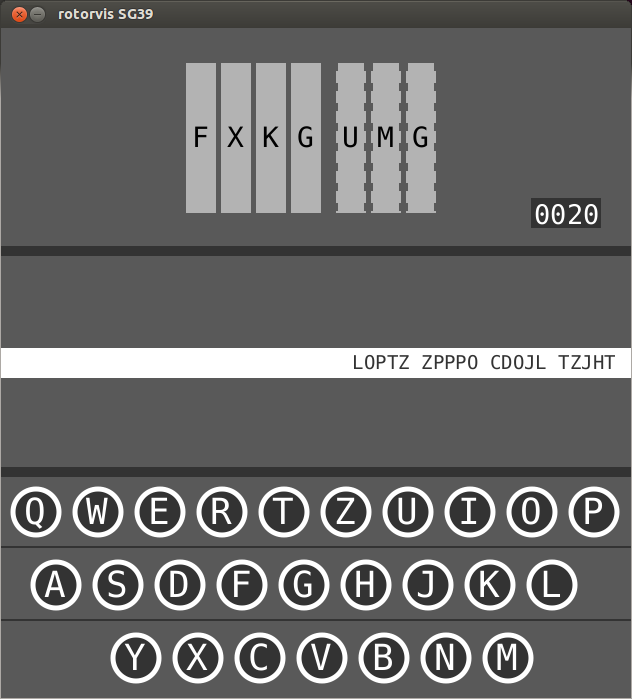
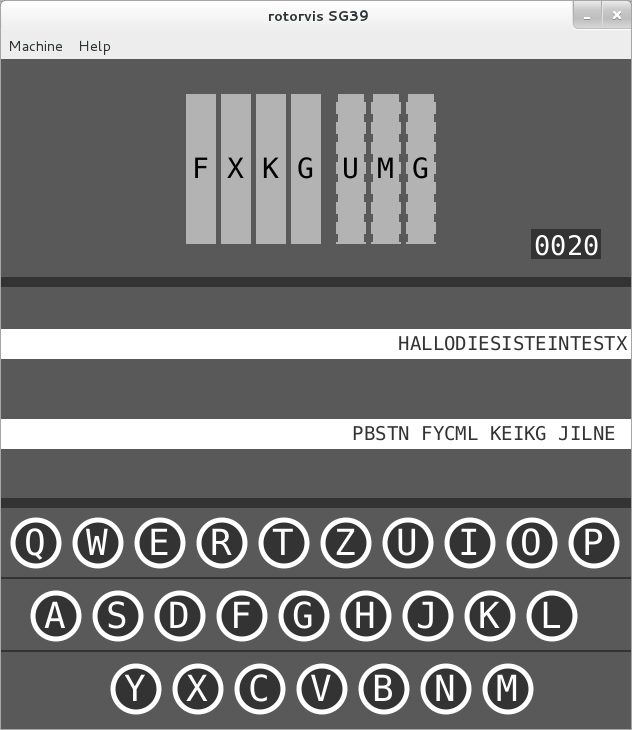
Implemented dual printer for SG39

diff --git a/output_device.h b/output_device.h
@@ -57,14 +57,23 @@ public:
      */    
     virtual void draw(Cairo::RefPtr<Cairo::Context> cr);
 
+    /*! \brief This method implements the first phase of the visualization of the character pressed on the keyboard
+     *         given in parameter symbol. The result of this visualization is drawn into the drawing context specified
+     *         in parameter cr.
+     *
+     *  This method is intended to care for the situation where the output device of a rotor machine prints both input
+     *  and output characters.
+     */
+    virtual void keyboard_symbol_start(Cairo::RefPtr<Cairo::Context> cr, gunichar symbol) { ; }
+
     /*! \brief This method implements the first phase of the visualization of the output character given in parameter 
      *         symbol. The result of this visualization is drawn into the drawing context specified in parameter cr.
      */
     virtual void output_symbol_start(Cairo::RefPtr<Cairo::Context> cr, gunichar symbol) = 0;
 
-    /*! \brief This method implements the second phase of the visualization of the output character that has been determined
-     *         by a previous call to output_device::output_symbol_start(). The result of this visualization is drawn into the
-     *         drawing context specified in parameter cr.
+    /*! \brief This method implements the second phase of the visualization of the output and keyboard character that has been
+     *         determined by a previous call to output_device::output_symbol_start() or output_device::keyboard_symbol_start().
+     *         The result of this visualization is drawn into the drawing context specified in parameter cr.
      */
     virtual void output_symbol_stop(Cairo::RefPtr<Cairo::Context> cr) = 0;         
 
@@ -260,6 +269,70 @@ struct printer_params {
     unsigned int height;
 };
 
+/*! \brief A GUI class that is intened to be used as a base class for all output devices that know how to draw a simulated
+ *         printer into a Cairo drawing context.
+ */
+class printer_base : public output_device {
+public:
+    /*! \brief Constructor. The parameters pos_x and pos_y have to specify the upper left corner of the white paper strip. The
+     *         callback enc_state_func has to return a boolean which is used to determine if the underlying rotor machine is
+     *         doing encryptios (True) or not (False). The callback redraw_func is intended to initiate a redraw of the simulator's
+     *         GUI.
+     */
+    printer_base(sigc::slot<bool> enc_state_func, sigc::slot<void> redraw_func, int pos_x, int pos_y);
+
+    /*! \brief Draws the output device into the Cairo context specified by the parameter cr. 
+     *
+     *  In this base class implementation only the upper border is drawn.
+     */    
+    virtual void draw(Cairo::RefPtr<Cairo::Context> cr) { output_device::draw(cr); }
+
+    /*! \brief This method can be use to set the number of characters in a group. The new group size gas to be specified
+     *         through the parameter new_width.
+     */                
+    virtual void set_grouping_width(unsigned int new_width) = 0;
+
+    /*! \brief This method returns the number of characters that make up a group in this instance of printer_visualizer.
+     */                
+    virtual unsigned int get_grouping_width() = 0;
+
+    /*! \brief Calling this method with parameter new_value set to True forces this printer_base object to convert all characters
+     *         to lower case before they are printed. Calling this method with new_value = False instructs this printer_base
+     *         object to perform no forced conversion to lower case.
+     *
+     *  Calling this method with new_value = True does not change the case of letters that have already been printed.
+     */                
+    virtual void set_use_lower_case(bool new_value) = 0;
+
+    /*! \brief This method returns the value of the flag that determines if characters a converted to lower case before
+     *         being printed.
+     */                
+    virtual bool get_use_lower_case() = 0;
+        
+    /*! \brief This method allows to set the printer_params that are in use in this instance of printer_base to the new value
+     *         given in parameter parms.
+     */                
+    virtual void set_printer_params(printer_params parms) = 0;
+
+    /*! \brief This method returns the printer_params that are currently in use in this printer_base object.
+     */                
+    virtual printer_params get_printer_params() = 0;
+
+    /*! \brief Clears the paper strip and redraws the simulator's GUI.
+     */                    
+    virtual void reset() = 0;
+    
+    virtual ~printer_base() { ; }
+
+protected:
+
+    /*! \brief Holds the callback that can be used to determine the current state (en/decryption) of the underlying rotor machine. */    
+    sigc::slot<bool> enc_state;
+
+    /*! \brief Holds the callback that can be used to redraw the simulator's GUI. */    
+    sigc::slot<void> redraw;           
+};
+
 /*! \brief A GUI class that knows how to draw a simulated printer into a Cairo drawing context.
  *
  *  A printer_visualizer draws a white strip on which the symbols to be printed appear character by character. Depending on
@@ -269,7 +342,7 @@ struct printer_params {
  *  A printer_visualizer can be forced to convert all symbols to lower case before they are printed. This is controlled by 
  *  the printer_visualizer::use_lower_case flag. This flag can be set by the method printer_visualizer::set_use_lower_case().
  */
-class printer_visualizer : public output_device {
+class printer_visualizer : public printer_base {
 public:
     /*! \brief Constructor. The parameters pos_x and pos_y have to specify the upper left corner of the white paper strip. The
      *         callback enc_state_func has to return a boolean which is used to determine if the underlying rotor machine is
@@ -325,8 +398,8 @@ public:
      *         given in parameter parms.
      */                
     virtual void set_printer_params(printer_params parms) { params = parms; }
-
-    /*! \brief This method returns the printer_params that are currently in use in this printer_visualizer.
+    
+    /*! \brief This method returns the printer_params that are currently in use in this printer_base object.
      */                
     virtual printer_params get_printer_params() { return params; }
 
@@ -343,15 +416,15 @@ protected:
      */                    
     void init_data();
 
+    /*! \brief Connects the printer_visualizer::reset() method to the signal specified in parameter signal. This method is
+     *         intended to be called by the two constructors.
+     */                    
+    void connect_signal(sigc::signal<void>& signal);
+
     /*! \brief Returns the number of pixels it takes to draw the text specified in parameter to_measure into the drawing
      *         context given in parameter cr.
      */                    
     double measure_string(Cairo::RefPtr<Cairo::Context> cr, ustring& to_measure);
-
-    /*! \brief Connects the printer_visualizer::reset() method to the signal specified in paramete signal. This method is
-     *         intended to be called by the two constructors.
-     */                    
-    void connect_signal(sigc::signal<void>& signal);
 
     /*! \brief Holds the printer_params that are in use in this instance of printer_visualizer. */                        
     printer_params params;
@@ -366,20 +439,125 @@ protected:
     unsigned int grouping_width;
     
     /*! \brief Holds the number of characters that are currently missing to a full group. */    
-    unsigned int grouping_count;
+    unsigned int grouping_count;  
     
     /*! \brief Holds the connection object by which this printer_visualizer subscribes to the sig_mode_change signal 
      *         specified in the constructor. 
      */        
-    sigc::connection mode_change_conn;
-
-    /*! \brief Holds the callback that can be used to determine the current state (en/decryption) of the underlying rotor machine. */    
-    sigc::slot<bool> enc_state;
-
-    /*! \brief Holds the callback that can be used to redraw the simulator's GUI. */    
-    sigc::slot<void> redraw;       
+    sigc::connection mode_change_conn;      
 };
 
+/*! \brief A GUI class that knows how to draw a simulated dual printer that prints the input characters as well 
+ *         as the output characters into a Cairo drawing context.
+ *
+ *  Its implementation makes use of two separate printer_visualizer objects where calls to the dual_printer
+ *  methods are forwarded appropriately.
+ */
+class dual_printer : public printer_base {
+public:
+    /*! \brief Constructor. The parameters pos_x and pos_y have to specify the upper left corner of the white paper strip of
+     *         the first (input) printer. The callback enc_state_func has to return a boolean which is used to determine if the
+     *         underlying rotor machine is doing encryptios (True) or not (False). The callback redraw_func is intended to
+     *         initiate a redraw of the simulator's GUI. A dual_printer subscribes to the sig_mode_change signal in order 
+     *         to reset itself when the mode (en-/decryption) of the underlying rotor machine changes.
+     */
+    dual_printer(sigc::slot<bool> enc_state_func, sigc::slot<void> redraw_func, sigc::signal<void>& sig_mode_change, int pos_x, int pos_y);
+
+    /*! \brief Draws the simulated dual printer into the drawing contex specified by parameter cr.
+     */        
+    virtual void draw(Cairo::RefPtr<Cairo::Context> cr) { printer_base::draw(cr); input_printer->draw(cr); output_printer->draw(cr); }
+
+    /*! \brief This method implements the first phase of the visualization of the character pressed on the keyboard
+     *         given in parameter symbol. The result of this visualization is drawn into the drawing context specified
+     *         in parameter cr.
+     *
+     *  This method is intended to care for the situation where the output device of a rotor machine prints both input
+     *  and output characters.
+     */
+    virtual void keyboard_symbol_start(Cairo::RefPtr<Cairo::Context> cr, gunichar symbol) { input_printer->output_symbol_start(cr, symbol); }
+    
+    /*! \brief This method prints the character given in parameter symbol. For this it utilizes the drawing context
+     *         specified in parameter cr.
+     */            
+    virtual void output_symbol_start(Cairo::RefPtr<Cairo::Context> cr, gunichar symbol) { output_printer->output_symbol_start(cr, symbol); }
+
+    /*! \brief This method does nothing.
+     */            
+    virtual void output_symbol_stop(Cairo::RefPtr<Cairo::Context> cr) { ; }
+
+    /*! \brief This method sets the width of the GtK::DrawingArea in which the visualization of the dual printer does
+     *         happen.
+     */    
+    virtual void set_width(int new_val) { input_printer->set_width(new_val); output_printer->set_width(new_val); }
+
+    /*! \brief This method returns the width of the GtK::DrawingArea in which the visualization of the dual printer does
+     *         happen.
+     */    
+    virtual int get_width() { return output_printer->get_width(); }
+
+    /*! \brief Calling this method with parameter new_value set to True forces this dual_printer object to convert all characters
+     *         to lower case before they are printed. Calling this method with new_value = False instructs this dual_printer
+     *         object to perform no forced conversion to lower case.
+     *
+     *  Calling this method with new_value = True does not change the case of letters that have already been printed.
+     */                
+    virtual void set_use_lower_case(bool new_value) { input_printer->set_use_lower_case(new_value); output_printer->set_use_lower_case(new_value); }
+
+    /*! \brief This method returns the value of the flag that determines if characters a converted to lower case before
+     *         being printed.
+     */                
+    virtual bool get_use_lower_case() { return output_printer->get_use_lower_case(); }
+
+    /*! \brief This method allows to set the printer_params that are in use in this instance of dual_printer to the new value
+     *         given in parameter parms.
+     */                
+    virtual void set_printer_params(printer_params parms) { input_printer->set_printer_params(parms); output_printer->set_printer_params(parms); }
+
+    /*! \brief This method returns the printer_params that are currently in use in this dual_printer object.
+     */                
+    virtual printer_params get_printer_params() { return output_printer->get_printer_params(); }
+
+    /*! \brief This method can be use to set the number of characters in a group. The new group size gas to be specified
+     *         through the parameter new_width.
+     */                
+    virtual void set_grouping_width(unsigned int new_width) { input_printer->set_grouping_width(new_width); output_printer->set_grouping_width(new_width); }
+
+    /*! \brief This method returns the number of characters that make up a group in this instance of printer_visualizer.
+     */                
+    virtual unsigned int get_grouping_width() { return output_printer->get_grouping_width(); }
+
+    /*! \brief Clears both paper strips and redraws the simulator's GUI.
+     */                    
+    virtual void reset() { input_printer->reset(); output_printer->reset(); }
+
+    /*! \brief Destructor.
+     */                    
+    virtual ~dual_printer() { ; }   
+    
+protected:
+    /*! \brief Connects the dual_printer::reset() method to the signal specified in parameter signal. This method is
+     *         intended to be called by the two constructors.
+     */                    
+    void connect_signal(sigc::signal<void>& signal);
+
+    /*! \brief Returns the inverse value of enc_state().
+     */                    
+    bool always_enc() { return !enc_state(); }
+
+    /*! \brief Holds the printer_visualizer that is used to print the characters entered via the keyboard. */
+    boost::shared_ptr<printer_visualizer> input_printer;        
+
+    /*! \brief Holds the printer_visualizer that is used to print the characters that are produced as output. */    
+    boost::shared_ptr<printer_visualizer> output_printer;   
+    
+    /*! \brief Holds a dummy signal to which input_printer and output_printer can connect. */        
+    sigc::signal<void> dummy_signal;         
+
+    /*! \brief Holds the connection object by which this dual_printer subscribes to the sig_mode_change signal 
+     *         specified in the constructor. 
+     */        
+    sigc::connection mode_change_conn;      
+};
 
 #endif /* __output_device_h__ */
 

diff --git a/output_device.cpp b/output_device.cpp
@@ -263,6 +263,15 @@ void enigma_real_lamp_board::output_symbol_stop(Cairo::RefPtr<Cairo::Context> cr
 
 /* ----------------------------------------------------------- */
 
+printer_base::printer_base(sigc::slot<bool> enc_state_func, sigc::slot<void> redraw_func, int pos_x, int pos_y)
+    : output_device(pos_x, pos_y) 
+{ 
+    enc_state = enc_state_func;
+    redraw = redraw_func;
+}
+
+/* ----------------------------------------------------------- */
+
 void printer_visualizer::init_data()
 {
     grouping_width = 5;
@@ -270,20 +279,16 @@ void printer_visualizer::init_data()
 }
 
 printer_visualizer::printer_visualizer(sigc::slot<bool> enc_state_func, sigc::slot<void> redraw_func, sigc::signal<void>& sig_mode_change, int pos_x, int pos_y)
-    : output_device(pos_x, pos_y) 
+    : printer_base(enc_state_func, redraw_func, pos_x, pos_y) 
 { 
     init_data();
-    enc_state = enc_state_func;
-    redraw = redraw_func;
-    connect_signal(sig_mode_change);
+    connect_signal(sig_mode_change);    
 }
 
 printer_visualizer::printer_visualizer(sigc::slot<bool> enc_state_func, sigc::slot<void> redraw_func, sigc::signal<void>& sig_mode_change)
-    : output_device(0, PRINTER_Y) 
+    : printer_base(enc_state_func, redraw_func, 0, PRINTER_Y) 
 {
     init_data();    
-    enc_state = enc_state_func;
-    redraw = redraw_func;    
     connect_signal(sig_mode_change);    
 }
 
@@ -305,7 +310,7 @@ double printer_visualizer::measure_string(Cairo::RefPtr<Cairo::Context> cr, ustr
 
 void printer_visualizer::draw(Cairo::RefPtr<Cairo::Context> cr)
 {
-    output_device::draw(cr);
+    printer_base::draw(cr);
     
     double text_width;
     unsigned int font_size = (params.height / 2) + FONT_SIZE_OFFSET;
@@ -399,4 +404,21 @@ void printer_visualizer::output_symbol_stop(Cairo::RefPtr<Cairo::Context> cr)
     ;
 }
 
+/* ----------------------------------------------------------- */
+
+dual_printer::dual_printer(sigc::slot<bool> enc_state_func, sigc::slot<void> redraw_func, sigc::signal<void>& sig_mode_change, int pos_x, int pos_y)
+    : printer_base(enc_state_func, redraw_func, pos_x, pos_y) 
+{       
+    input_printer = boost::shared_ptr<printer_visualizer>(new printer_visualizer(sigc::mem_fun(*this, &dual_printer::always_enc), redraw_func, dummy_signal, pos_x, pos_y));    
+    output_printer = boost::shared_ptr<printer_visualizer>(new printer_visualizer(enc_state_func, redraw_func, dummy_signal, pos_x, pos_y + 90));        
+    
+    connect_signal(sig_mode_change);
+}
+
+void dual_printer::connect_signal(sigc::signal<void>& signal)
+{
+    mode_change_conn.disconnect();    
+    mode_change_conn = signal.connect(sigc::mem_fun(*this, &dual_printer::reset));        
+    reset();
+}
 

diff --git a/rotor_draw.cpp b/rotor_draw.cpp
@@ -111,7 +111,8 @@ void rotor_draw::build_sg39(vector<string>& r_names)
     keys = boost::shared_ptr<keyboard_base>(new enigma_keyboard(sigc::mem_fun(this, &rotor_draw::get_enc_flag), 
                                                                 sigc::mem_fun(this, &rotor_draw::get_machine), sigc::mem_fun(this, &rotor_draw::update_rotors)));  
     set_triangular_keyboard_layout(keys.get(), "qwertzuiopasdfghjklyxcvbnm", SIZE_Y_DEFAULT);
-    add_printer();
+    //add_printer();
+    add_dual_printer();
     visualizer = boost::shared_ptr<rotor_visualizer>(new sg39_rotor_visualizer(r_names, 420));
     add_counter(530, COUNTER_ROW_Y);
 }
@@ -245,6 +246,17 @@ void rotor_draw::add_printer()
     lamps = boost::shared_ptr<output_device>(temp);
     lamps->set_width(SIZE_X_BIG_KEYBOARD);
 }
+
+void rotor_draw::add_dual_printer()
+{
+    int current_width, current_height;
+    
+    get_size_request(current_width, current_height);
+    printer_base *temp = new dual_printer(sigc::mem_fun(this, &rotor_draw::get_enc_flag), sigc::mem_fun(this, &rotor_draw::redraw), signal_mode_changed(), 0, 320 - 50);
+    lamps = boost::shared_ptr<output_device>(temp);
+    lamps->set_width(current_width);
+}
+
 
 void rotor_draw::set_triangular_lampboard_layout(enigma_lamp_board *lamps_help)
 {

diff --git a/keyboard_vis.cpp b/keyboard_vis.cpp
@@ -363,6 +363,8 @@ void keyboard_base::process_key_press(Cairo::RefPtr<Cairo::Context> cr, unsigned
     // Check whether input key was letter shift or figure shift    
     if ((key_pressed != '<') and (key_pressed != '>'))
     {
+        // In case of a dual printer also print input symbol
+        output->keyboard_symbol_start(cr, key_pressed);
         // Only emit an input char if it was neither letter shift nor figure shift
         input_char.emit(key_pressed);    
     }

diff --git a/rotor_draw.h b/rotor_draw.h
@@ -207,6 +207,10 @@ protected:
     */                        
     void add_printer();
 
+    /*! \brief Causes a dual printer (simulated paper strips for input and output characters) to be shown in the simulator's GUI.
+    */                        
+    void add_dual_printer();
+
     /*! \brief Causes a lampboard to be shown in the simulator's GUI.
     */                        
     void add_lampboard();
